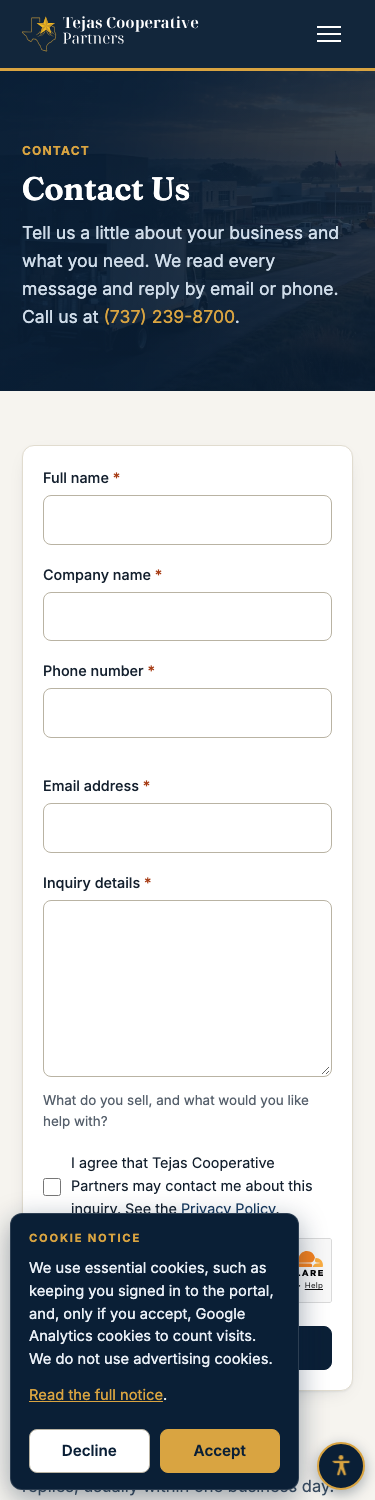
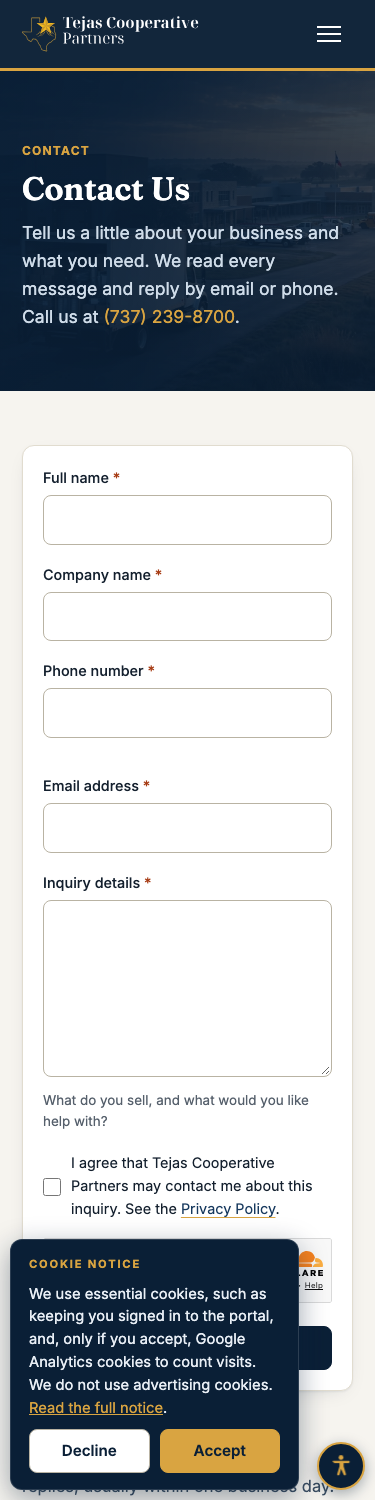
Site/portal uniform design: report, README design notes, refreshed screenshots

Changed region(s): [[0.0, 0.7973, 0.8213, 0.9507]]

diff --git a/Docs/site-portal-uniform-report.md b/Docs/site-portal-uniform-report.md
@@ -1,0 +1,26 @@
+# Public site: uniform design with the client portal
+
+Date: November 7, 2026. Presentation only. The hero background is unchanged.
+
+## What changed
+- `styles.css`: a shared tokens block at the top (`--cp-*`, identical values to `src/components/portal/portal.css` in the platform repo). The site's own variable names (`--navy`, `--gold`, `--sand`, ...) now point at those tokens, so site and portal cannot drift. The old rust accent is retired.
+- A "Portal alignment layer" at the end of `styles.css`:
+  - Buttons: navy primary on light backgrounds, gold primary on dark (hero, header, contact band, blog CTA, cookie notice), ghost buttons, 44px minimum height, full width on phones.
+  - Cards, steps and chips use the portal card shadow and radius; tags are labeled pills; the pricing note is a portal notice; the feature card uses the portal gold tone.
+  - Forms (Fit Review modal, Contact): portal field style, 44px fields, 16px text, gold focus ring, portal error color.
+  - Links: navy with a gold underline in running text; gold on dark.
+  - Page is sand with white alternate bands, as in the portal. Hero gets the portal's 3px gold bottom rule.
+  - Tap targets at least 44px in header, menus, footer links, modal close, option chips.
+- Not changed: copy, pricing, legal text, markup, GA4 and consent mode, Turnstile, form endpoints, phone mask, URLs, `assets/hero.webp` and its overlay gradients.
+
+## Evidence
+`Docs/site-portal-uniform/before/` and `after/`: desktop home (top and full), contact, Fit Review modal; 375px home, contact, Fit Review modal (375px shots use an iframe wrapper because headless Chrome has a minimum window width).
+
+## Verified
+Served locally with `wrangler dev`; rendered in headless Chrome at 1280px and 375px; hero background, gold buttons, cards, modal, contact form and cookie notice checked in the screenshots.
+
+## Not verified
+A real iPhone, the blog index and post pages (not re-screenshotted; they share the same classes), hover states, and the reduced-motion setting.
+
+## Note
+`index.html` had an uncommitted pricing copy change (Incumbent Re-Award paragraph) from before this work. It is not part of this commit and was kept out of the deploy; it is still uncommitted in the working tree.

diff --git a/README.md b/README.md
@@ -72,3 +72,7 @@ The `gh-pages` branch served the old GitHub Pages address and is retired by this
 ## Accessibility statement and cookie notice
 
 `js/notices.js` (loaded on every public page) adds the floating accessibility icon with its statement dialog, the cookie notice banner, and a full cookie notice dialog. Footer links "Accessibility" and "Cookie Notice" reopen them. Wording lives at the top of that file; update it when the site's data practices change (analytics runs in Google consent mode: denied until the visitor accepts).
+
+## Design system
+
+`styles.css` starts with the shared `--cp-*` tokens, identical to the client portal's `portal.css` (platform repo). Change colors, radii or the tap size there and in the portal together. The "Portal alignment layer" at the end of the file holds the button, card, chip, form and link treatments. See `Docs/site-portal-uniform-report.md`.
